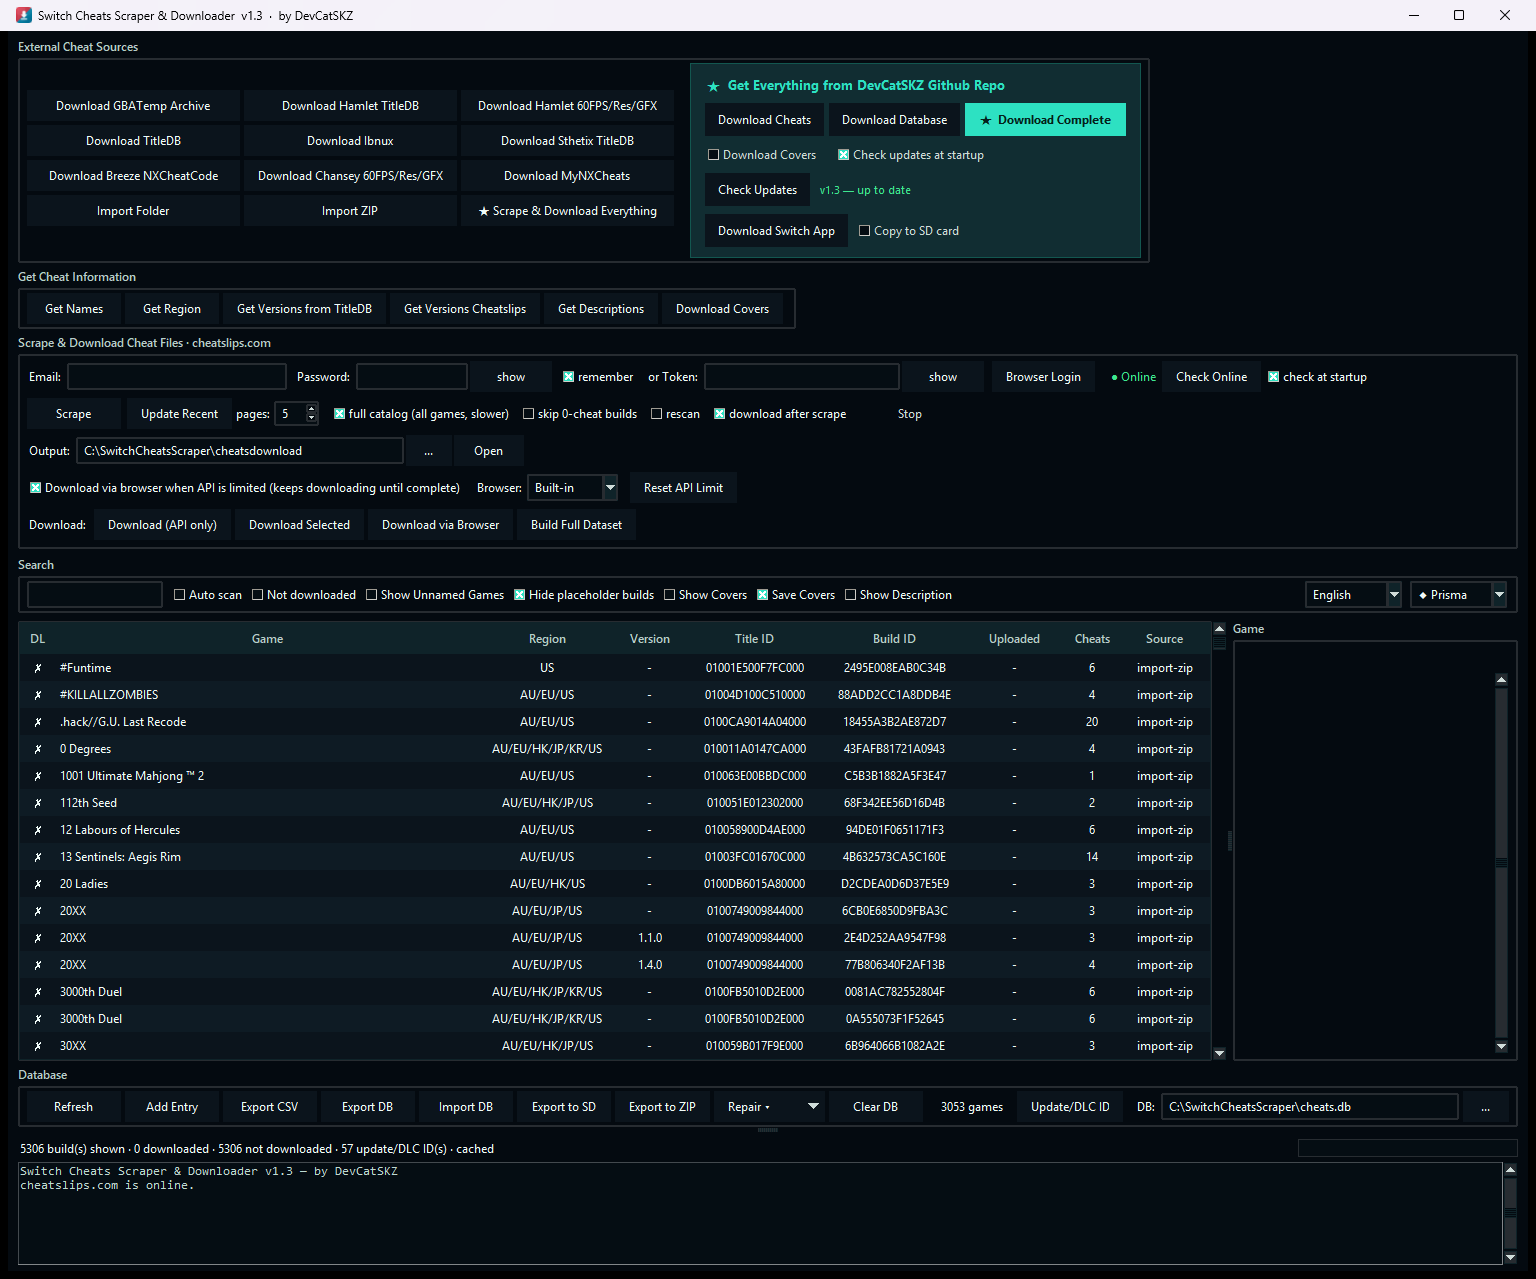
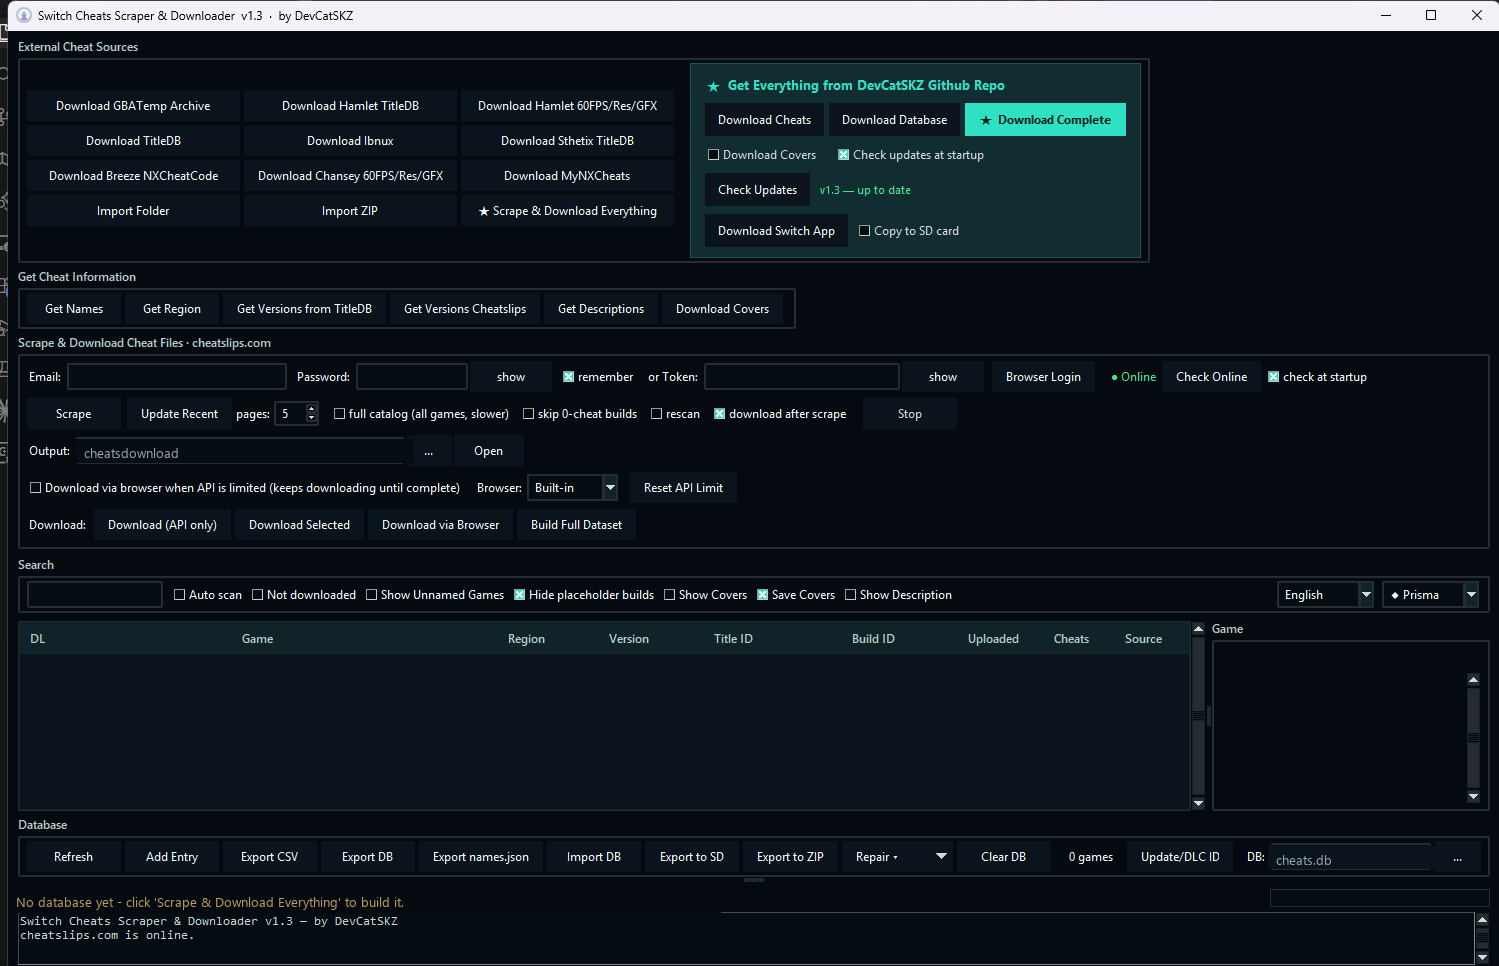
docs: add Android screenshot, neutral Windows screenshot to READMEs
- Replace the Windows tool screenshot with a neutral capture (no local
  file paths, empty credentials) that shows the current v1.3 UI including
  the featured "Everything from DevCatSKZ" card and the Export names.json
  button.
- Add an Android app screenshot to the Android section of README.md and
  README.de.md.
- Add the Windows screenshot to README.de.md (it was only in README.md).

diff --git a/README.de.md b/README.de.md
@@ -19,6 +19,8 @@ Ein Tool, um Nintendo-Switch-Cheatcodes von **[CheatSlips.com](https://www.cheat
 
 > Nutze das Tool nur mit deinem **eigenen** CheatSlips-Account. Alle Cheat-Codes gehören ihren ursprünglichen Autoren/Uploadern.
 
+<p align="center"><img src="screenshots/windows-tool.png" width="900" alt="Switch Cheats Scraper & Downloader (Windows)"></p>
+
 ## ⬇️ Download (Windows)
 
 Fertige Builds gibt es unter **[Releases](../../releases/latest)**:
@@ -45,6 +47,8 @@ Quellcode & Entwickler-Doku: [`SwitchCheatsNRO/`](SwitchCheatsNRO/) — mit devk
 ## 🤖 Android-App (Emulatoren)
 
 Derselbe Downloader läuft auch auf **Android**, für die Switch-Emulatoren **Eden, Suyu und Sudachi** (`SwitchCheatsDownloader-Android.apk`). Er holt das stets aktuelle [`data`-Release](https://github.com/DevCatSKZ/Switch-Cheats-Scraper-Downloader/releases/tag/data) **auf dem Handy** und schreibt die Cheats direkt in die load-Struktur des Emulators — ganz ohne PC.
+
+<p align="center"><img src="screenshots/android-app.png" width="340" alt="Switch Cheats Downloader (Android)"></p>
 
 **Was sie macht:** Wähle deinen Emulator und tippe auf **Starten** — die App lädt alle Cheats und schreibt sie in den load-Ordner des Emulators als `.../load/<TitleID>/<Spielname>/cheats/<BuildID>.txt`. Jeder Ordner wird nach dem echten Spielnamen benannt (aus der `names.json` im `data`-Release; als Rückfall die Title-ID). Abgebrochene Downloads werden **fortgesetzt**, die App prüft dieses Repo auf **Updates** (eine neuere APK *und* frische Cheats, gleiche Erkennung wie im Desktop-Tool), zeigt den Online-Status live an und spricht dieselben **6 Sprachen** (EN/DE/ES/FR/IT/JA, automatisch erkannt). Gleicher **Holo-Glass**-Look wie die Windows- und Switch-App.
 

diff --git a/README.md b/README.md
@@ -53,6 +53,8 @@ Source & developer docs: [`SwitchCheatsNRO/`](SwitchCheatsNRO/) — build with d
 
 The same downloader also runs on **Android**, for the Switch emulators **Eden, Suyu and Sudachi** (`SwitchCheatsDownloader-Android.apk`). It fetches the always-current [`data` release](https://github.com/DevCatSKZ/Switch-Cheats-Scraper-Downloader/releases/tag/data) **on the phone** and writes the cheats straight into the emulator's load layout — no PC needed.
 
+<p align="center"><img src="screenshots/android-app.png" width="340" alt="Switch Cheats Downloader (Android)"></p>
+
 **What it does:** pick your emulator and tap **Start** — it downloads every cheat and writes it into the emulator's load folder as `.../load/<TitleID>/<GameName>/cheats/<BuildID>.txt`, naming each mod folder after the real game (resolved from the data release's `names.json`, falling back to the Title ID). Interrupted downloads **resume**, the app checks this repo for **updates** (a newer APK *and* refreshed cheats, same re-upload detection as the desktop tool), shows a live online status, and speaks the same **6 languages** (EN/DE/ES/FR/IT/JA, auto-detected from the device). Same **Holo-Glass** look as the Windows and Switch apps.
 
 **Storage:** on first launch the app asks once for **All files access** (`MANAGE_EXTERNAL_STORAGE`) so it can write into the emulator folders. Where the OS still blocks a direct write (another app's `Android/data/…` on Android 11+), it falls back to a **one-time folder pick** — pre-navigated to the emulator's folder — and then keeps working automatically. An **export to a folder of your choice** is always available.